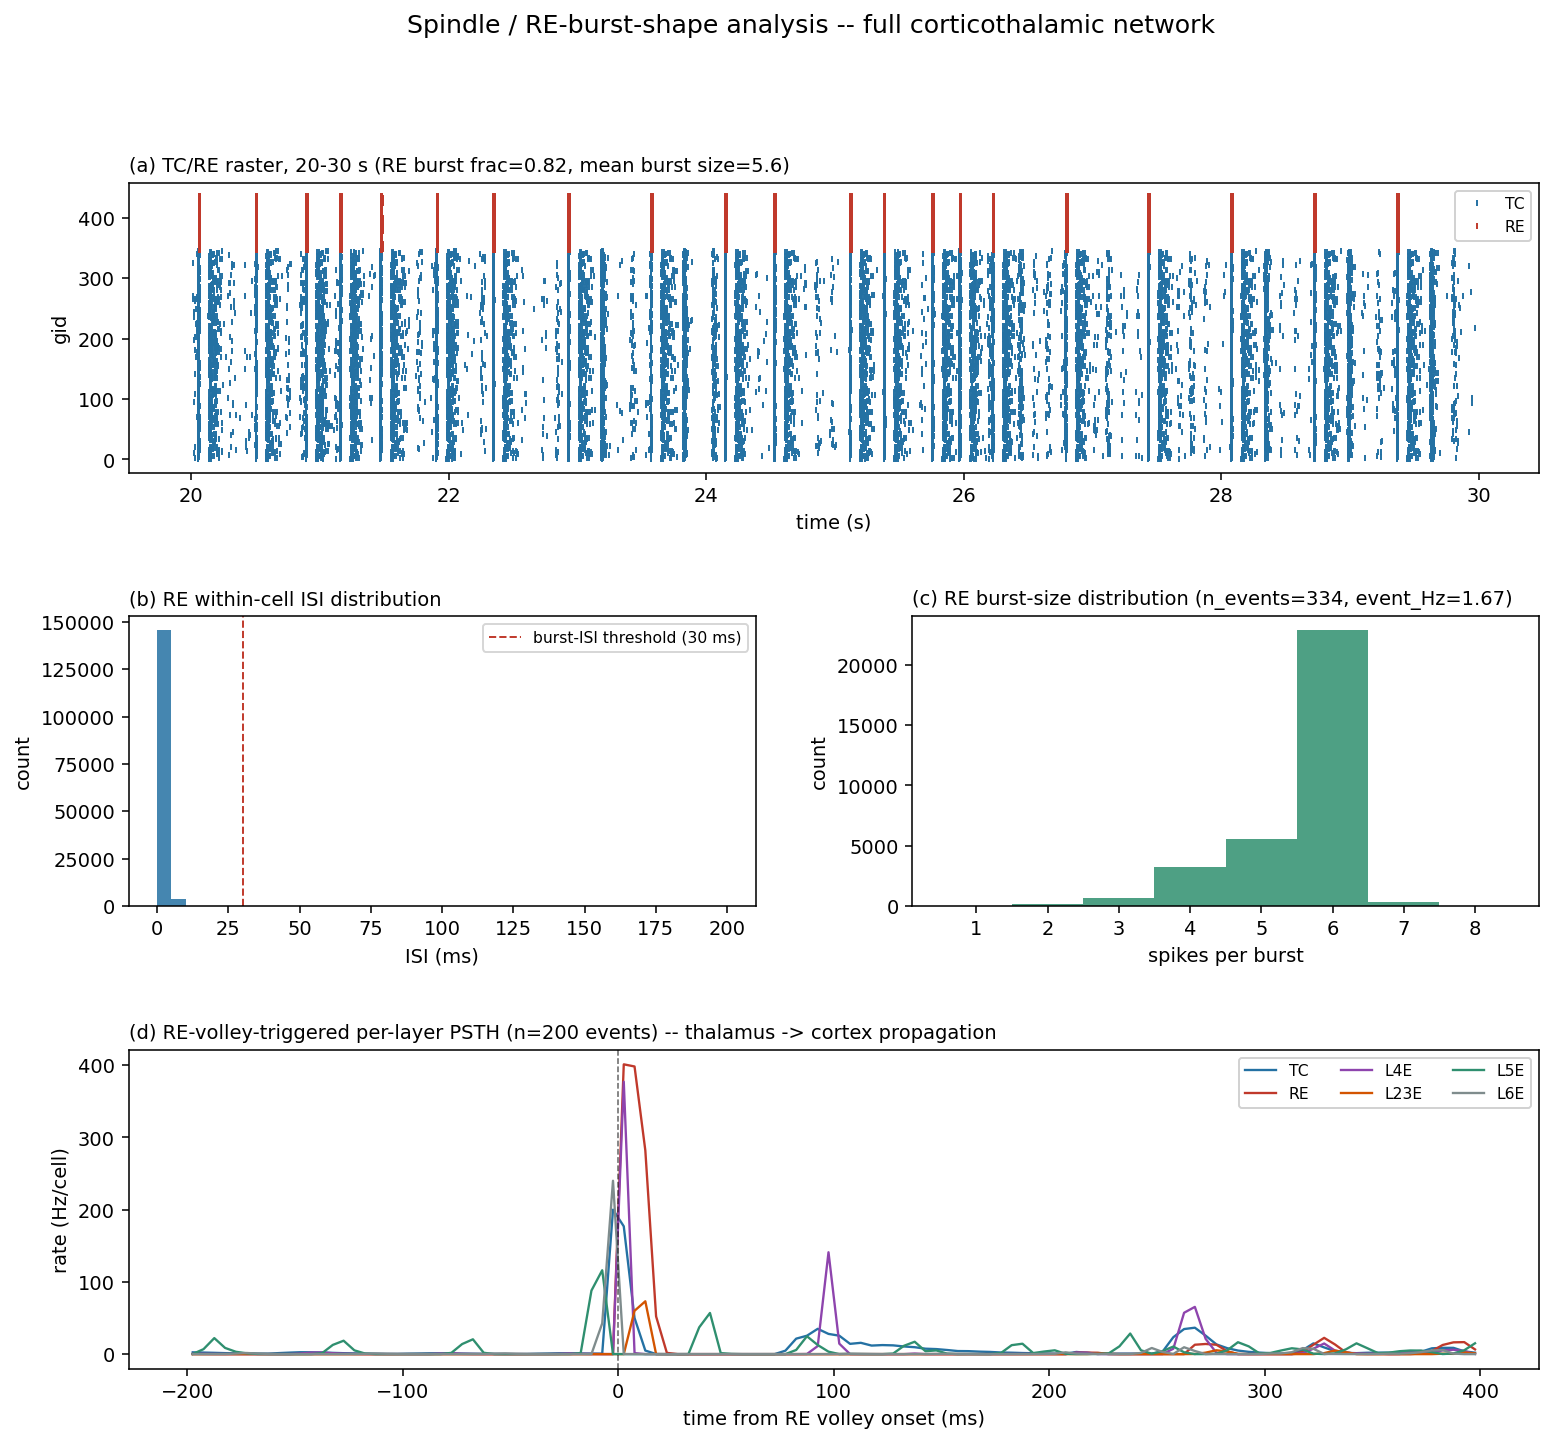
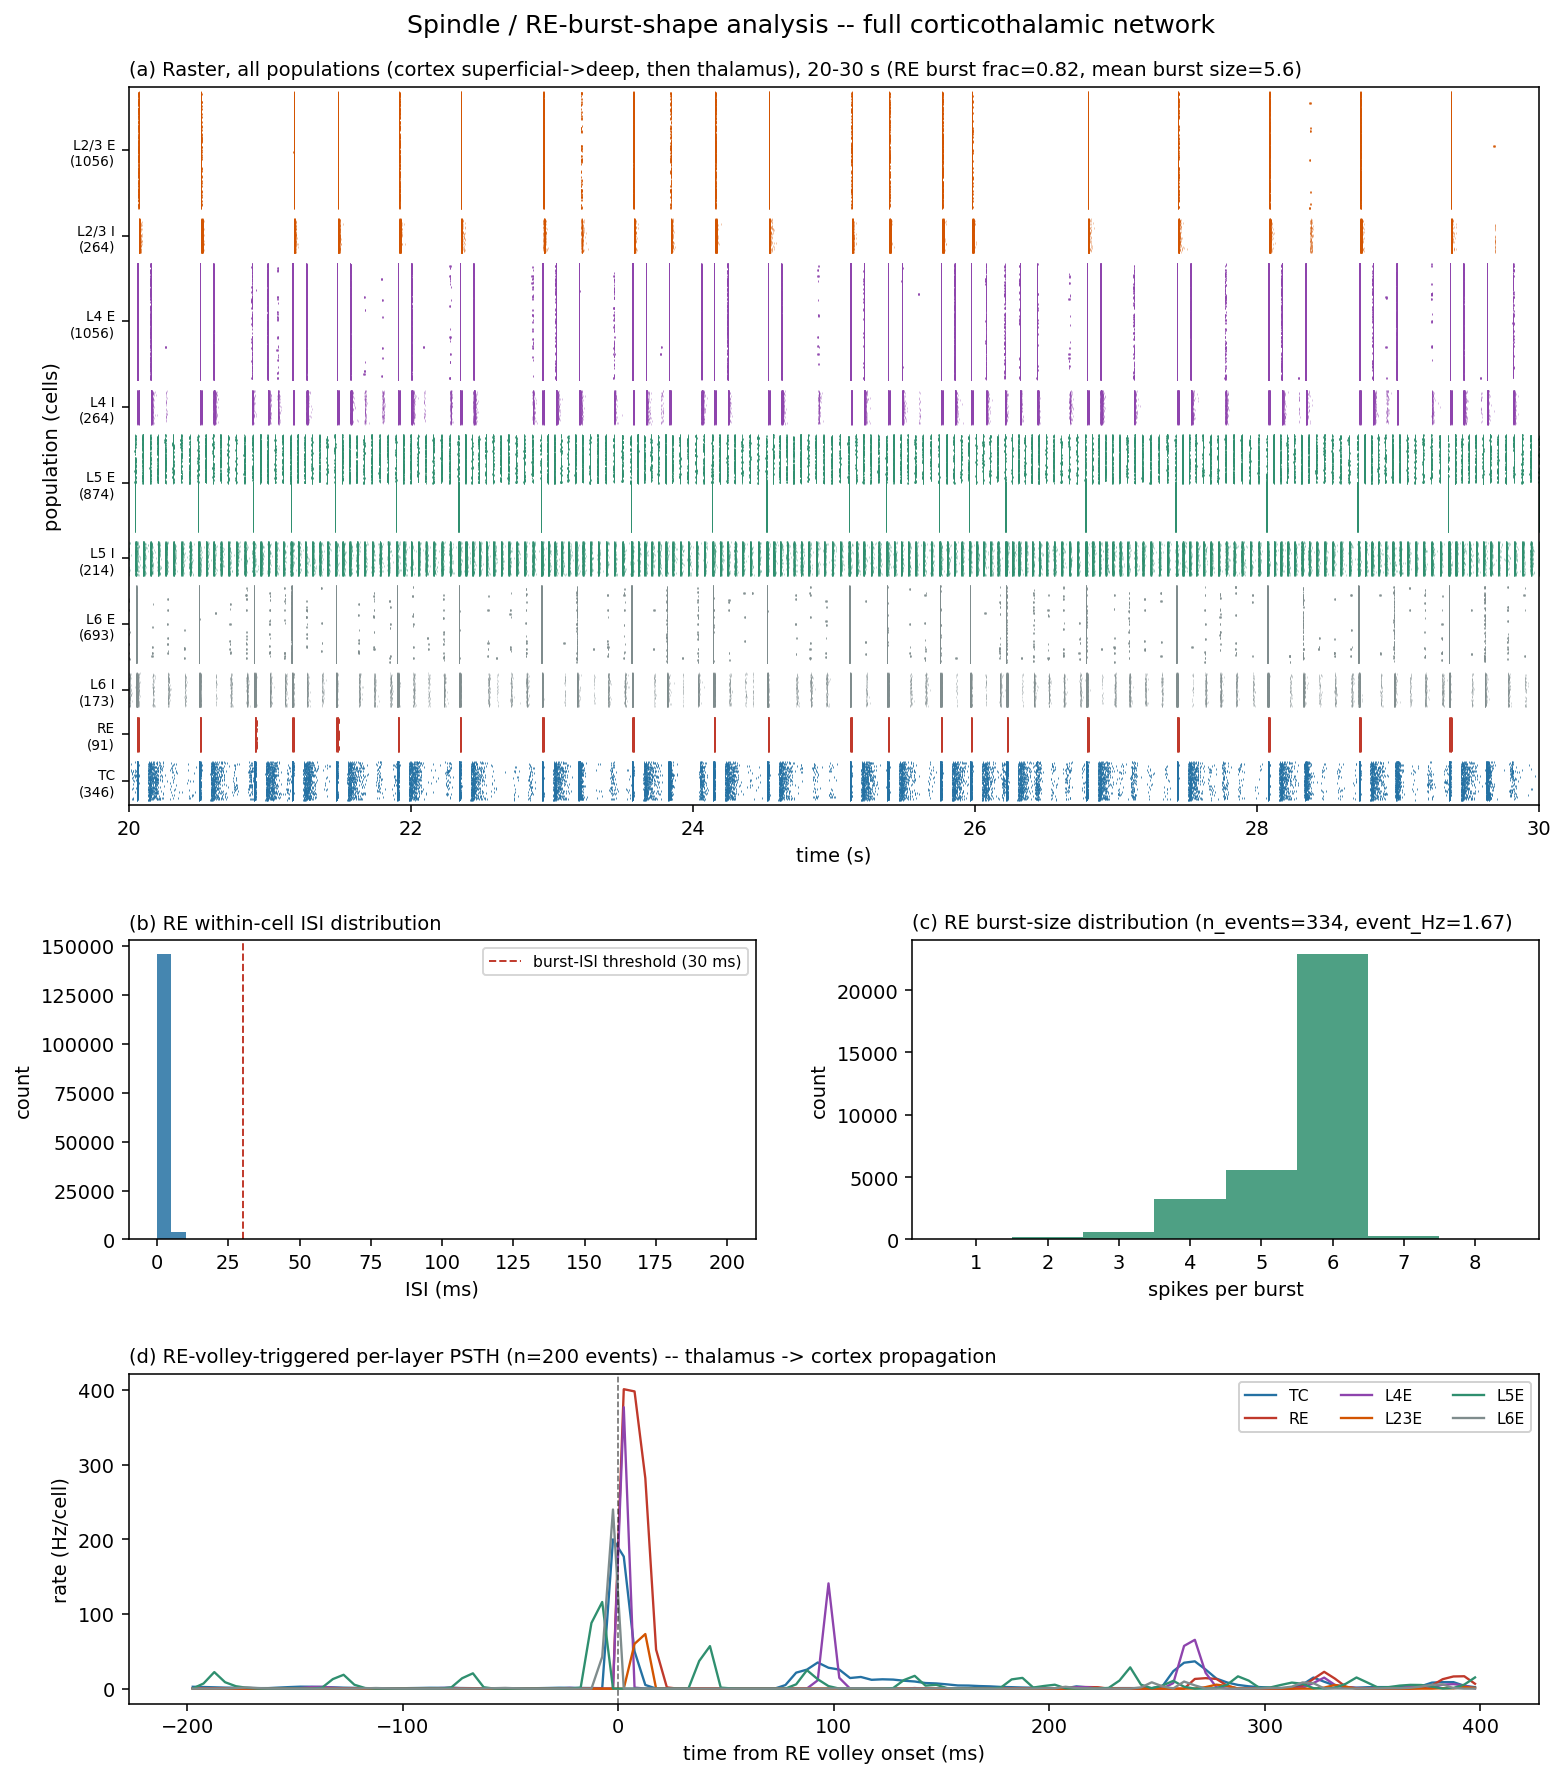
Add full-population raster to spindle and LFP comparison figures; Edu Q6
ctx_analyze: new _raster_all_pops() draws every population in
anatomical order (cortex L2/3 -> L6, E then I, then RE, TC), with a
minimum row height for small populations.
- make_spindle_figure panel (a): was TC/RE only, now the full raster.
- make_comparison_figure (reconstruction mode): raster under each
  case's two LFP panels, same spindle shading; --no-raster to omit.
  Title margin now scales with figure height.

Regenerated out/ctx_45453403_spindles.png and
out/mn5_before_vs_option2_comparison.png from the MN5 runs.
Edu-questions.md: new Q6 (what each population does, incl. the L5 IB
vs RS split: 3.2 vs 8.7 Hz/cell, RS locked to L5I at ~19 Hz) and a note
on the raster in the Q3 example.

diff --git a/neuron/ctx_analyze.py b/neuron/ctx_analyze.py
@@ -8,7 +8,8 @@ Two figures:
      cortex), slow-oscillation band (0.5-4 Hz), spindle band (8-15 Hz) with
      Hilbert envelope, and a spectrogram of the thalamic (TC+RE) signal.
 
-  2. <tag>_spindles.png -- RE burst shape (raster, ISI histogram, burst-size
+  2. <tag>_spindles.png -- raster of every population (cortex L2/3 -> L6,
+     then RE, TC), RE burst shape (ISI histogram, burst-size
      histogram) and a spindle-event-triggered PSTH across TC/RE/L4E/L23E/L5E/L6E
      showing whether/how a thalamic spindle volley propagates up the column.
 
@@ -164,20 +165,17 @@ def make_spindle_figure(npz, out_png, window=(20000, 30000)):
 
     s = _re_burst_stats(t, g, re_lo, re_hi)
 
-    fig = plt.figure(figsize=(13, 11))
-    gs = fig.add_gridspec(3, 2, height_ratios=[1, 1, 1.1], hspace=0.48, wspace=0.25)
+    fig = plt.figure(figsize=(13, 15))
+    gs = fig.add_gridspec(3, 2, height_ratios=[2.4, 1, 1.1], hspace=0.3, wspace=0.25)
 
-    w = (t >= window[0]) & (t < window[1])
     ax = fig.add_subplot(gs[0, :])
-    for name, color in [("tc", BLUE), ("re", RED)]:
-        lo, hi = ranges[name]
-        m = w & (g >= lo) & (g < hi)
-        ax.plot(t[m] / 1000.0, g[m], "|", ms=3, color=color, label=name.upper())
-    ax.set_title(f"(a) TC/RE raster, {window[0]/1000:.0f}-{window[1]/1000:.0f} s "
+    _raster_all_pops(ax, npz, window, label_sep="\n")
+    ax.set_xlim(window[0] / 1000.0, window[1] / 1000.0)
+    ax.set_title(f"(a) Raster, all populations (cortex superficial->deep, then thalamus), "
+                 f"{window[0]/1000:.0f}-{window[1]/1000:.0f} s "
                  f"(RE burst frac={s['frac_burst']:.2f}, mean burst size={s['mean_burst_size']:.1f})",
                  fontsize=10, loc="left")
-    ax.set_xlabel("time (s)"); ax.set_ylabel("gid")
-    ax.legend(fontsize=8, loc="upper right", framealpha=0.9)
+    ax.set_xlabel("time (s)"); ax.set_ylabel("population (cells)")
 
     ax = fig.add_subplot(gs[1, 0])
     if len(s["isis"]):
@@ -233,7 +231,7 @@ def make_spindle_figure(npz, out_png, window=(20000, 30000)):
     ax.legend(fontsize=8, ncol=3, loc="upper right", framealpha=0.9)
 
     fig.suptitle("Spindle / RE-burst-shape analysis -- full corticothalamic network",
-                 fontsize=13, y=0.99)
+                 fontsize=13, y=0.915)
     fig.savefig(out_png, dpi=140, bbox_inches="tight")
     plt.close(fig)
     print(f"Saved spindle-analysis figure to {out_png}")
@@ -356,6 +354,41 @@ def make_lfp_figure(npz, out_png, window=(20000, 30000), epoch_ms=2000.0):
     print(f"Saved LFP figure to {out_png}")
 
 
+RASTER_ROWS = [("l23e", "L2/3 E", "#d35400", 1.0), ("l23i", "L2/3 I", "#d35400", 0.4),
+               ("l4e", "L4 E", "#8e44ad", 1.0), ("l4i", "L4 I", "#8e44ad", 0.4),
+               ("l5e", "L5 E", GREEN, 1.0), ("l5i", "L5 I", GREEN, 0.4),
+               ("l6e", "L6 E", GREY, 1.0), ("l6i", "L6 I", GREY, 0.4),
+               ("re", "RE", RED, 1.0), ("tc", "TC", BLUE, 1.0)]
+
+
+def _raster_all_pops(ax, npz, window, min_frac=0.06, gap_frac=0.02, label_sep=" "):
+    """Spike raster of EVERY population, stacked in anatomical order (cortex
+    superficial -> deep, then RE, TC) rather than gid order. E cells use the
+    layer colours of make_spindle_figure's PSTH, I cells a lighter shade.
+    Rows are proportional to cell count, but small populations (RE, the I
+    populations) get at least min_frac of the total height so they stay
+    readable and labelled."""
+    t, g, ranges = npz["times"], npz["gids"], npz["ranges"].item()
+    rows = [r for r in RASTER_ROWS if r[0] in ranges]
+    total = sum(ranges[p][1] - ranges[p][0] for p, *_ in rows)
+    gap, min_h = gap_frac * total, min_frac * total
+    w = (t >= window[0]) & (t < window[1])
+    y0, ticks, labels = 0.0, [], []
+    for pop, label, color, alpha in reversed(rows):
+        lo, hi = ranges[pop]
+        n = hi - lo
+        h = max(n, min_h)
+        m = w & (g >= lo) & (g < hi)
+        ax.scatter(t[m] / 1000.0, y0 + (g[m] - lo) * (h / n), s=0.4, marker="|",
+                   lw=0.4, color=color, alpha=alpha, rasterized=True)
+        ticks.append(y0 + h / 2.0)
+        labels.append(f"{label}{label_sep}({n})")
+        y0 += h + gap
+    ax.set_yticks(ticks)
+    ax.set_yticklabels(labels, fontsize=7)
+    ax.set_ylim(-gap / 2, y0 - gap / 2)
+
+
 def _detect_spindles(spin, bins, k_sd=1.5, skip_ms=1000.0):
     """Spindle events = spindle-band Hilbert-envelope excursions above
     mean + k_sd*sd. Returns (starts, ends) as indices into bins; ends are
@@ -428,14 +461,19 @@ def make_literature_reconstruction_figure(npz, out_png, window=(20000, 40000),
     print(f"Saved literature-style reconstruction to {out_png}")
 
 
-def make_comparison_figure(cases, out_png, window=(2000, 12000), mode="reconstruction"):
+def make_comparison_figure(cases, out_png, window=(2000, 12000), mode="reconstruction",
+                           raster=True):
     """Overlay multiple runs on IDENTICAL y-scales for direct comparison --
     either the literature-style SO+spindle reconstruction (mode=
     "reconstruction", stacked one pair of panels per case, like
     make_literature_reconstruction_figure but multi-case) or the raw/
     SO-band/spindle-band triple used in make_lfp_figure's panel (c)
     (mode="panel_c", all cases overlaid on 3 shared panels instead of
-    stacked). `cases` is a list of (label, npz, color) tuples."""
+    stacked). `cases` is a list of (label, npz, color) tuples.
+
+    raster (reconstruction mode only): add a spike raster of every
+    population under each case's two LFP panels, on the same time axis and
+    with the same spindle shading (see _raster_all_pops)."""
     fs = 1000.0
     computed = {}
     for label, npz, color in cases:
@@ -456,11 +494,21 @@ def make_comparison_figure(cases, out_png, window=(2000, 12000), mode="reconstru
                       for l, _, _ in cases)
         spin_max = max(np.max(np.abs(computed[l]["spin"][_w(computed[l]["bins"])]))
                        for l, _, _ in cases)
-        fig, axes = plt.subplots(len(cases) * 2, 1, figsize=(14, 2.3 * len(cases) * 2), sharex=True)
-        for i, (label, _, color) in enumerate(cases):
+        per = 3 if raster else 2
+        ratios = ([1, 1, 2.6] if raster else [1, 1]) * len(cases)
+        fig, axes = plt.subplots(len(cases) * per, 1, sharex=True,
+                                 figsize=(14, sum(ratios) * 2.3),
+                                 gridspec_kw=dict(height_ratios=ratios))
+        for i, (label, npz, color) in enumerate(cases):
             d = computed[label]
             w = _w(d["bins"]); tsec = d["bins"][w] / 1000.0
-            ax_raw, ax_spin = axes[2 * i], axes[2 * i + 1]
+            ax_raw, ax_spin = axes[per * i], axes[per * i + 1]
+            shaded = [ax_raw, ax_spin]
+            if raster:
+                ax_r = axes[per * i + 2]
+                _raster_all_pops(ax_r, npz, window)
+                ax_r.set_ylabel("spikes", fontsize=8)
+                shaded.append(ax_r)
             ax_raw.plot(tsec, d["reconstructed"][w], color=color, lw=0.8)
             ax_raw.set_ylim(-raw_max * 1.1, raw_max * 1.1)
             ax_raw.set_ylabel("SO + spindle\nbands (sum)", fontsize=8)
@@ -472,13 +520,16 @@ def make_comparison_figure(cases, out_png, window=(2000, 12000), mode="reconstru
                 ts_, te_ = d["bins"][s] / 1000.0, d["bins"][e] / 1000.0
                 if te_ < window[0] / 1000.0 or ts_ > window[1] / 1000.0:
                     continue
-                for ax in (ax_raw, ax_spin):
+                for ax in shaded:
                     ax.axvspan(ts_, te_, color="0.5", alpha=0.18, lw=0)
         axes[-1].set_xlabel("time (s)")
+        axes[-1].set_xlim(window[0] / 1000.0, window[1] / 1000.0)
         fig.suptitle("Reconstructed (SO-band + spindle-band) LFP, literature-style stacked format\n"
-                     "(identical y-scales across cases; shaded = detected spindle events)",
+                     "(identical y-scales across cases; shaded = detected spindle events"
+                     + ("; raster = all populations, cortex L2/3 -> L6 then RE, TC)" if raster else ")"),
                      fontsize=12, y=0.995)
-        fig.tight_layout(rect=[0, 0, 1, 0.94])
+        fig_h = fig.get_size_inches()[1]
+        fig.tight_layout(rect=[0, 0, 1, min(0.97, 1 - 0.9 / fig_h)])
     else:
         def common_ylim(key, pad=1.15):
             vals = [computed[l][key][_w(computed[l]["bins"])] for l, _, _ in cases]
@@ -531,6 +582,9 @@ def main(argv=None):
                           "label=path pairs, e.g. "
                           "\"old=out/a.npz,new=out/b.npz\". Colors are assigned "
                           "automatically. See --compare-mode.")
+    ap.add_argument("--no-raster", action="store_true",
+                     help="--compare reconstruction mode: omit the all-population "
+                          "spike raster under each case")
     ap.add_argument("--compare-mode", choices=["reconstruction", "panel_c"],
                      default="reconstruction",
                      help="--compare output style: \"reconstruction\" (stacked "
@@ -555,7 +609,8 @@ def main(argv=None):
         window = (args.window_start, args.window_start + args.window_len)
         tag = args.tag or "compare"
         make_comparison_figure(cases, outdir / f"{tag}_comparison.png",
-                                window=window, mode=args.compare_mode)
+                                window=window, mode=args.compare_mode,
+                                raster=not args.no_raster)
         return 0
 
     npz = np.load(args.npz, allow_pickle=True)

diff --git a/Edu-questions.md b/Edu-questions.md
@@ -274,7 +274,10 @@ smoothed with a 5 ms moving average (`make_meanfield_figure` in
 Both runs are 5031 cells and 200 s on MN5; the plot shows 20–30 s, after the
 start-up period, on identical y-scales. For each run the upper trace is the
 0.5–2 Hz band plus the 10–15 Hz band, the lower trace is the 10–15 Hz band
-alone, and grey boxes are detected spindle events (question 1).
+alone, and grey boxes are detected spindle events (question 1). The third
+panel is a spike raster of every population (cortex L2/3 → L6, then RE, TC)
+with the same shading, so each shaded event can be matched to the spikes
+under it: in both runs each one sits on a single thalamic volley (question 5).
 
 - **Top, job 45171023:** before the L5 tuning. It predates three changes: L5
   recurrence, weaker L5 inhibition (`g_i_e_l5`) and slower L5 adaptation
@@ -525,3 +528,41 @@ The figure and every number above come from `neuron/volley_stats.py`:
 ```bash
 python3 neuron/volley_stats.py "Before L5 tuning (MN5 job 45171023)=res/2026-08-31/ctx_nrn_45171023.npz" "Option 2 (MN5 job 45453403)=res/2026-09-07/ctx_nrn_45453403.npz" --plot out/mn5_population_rates_before_vs_option2.png
 ```
+
+## 6) What do the cortical cells do? (full raster of every population)
+
+The spindle figure's panel (a) used to show only TC and RE. It now shows every
+population, in anatomical order: cortex from L2/3 down to L6 (E, then the
+lighter-shaded I cells of each layer), then RE and TC. Rows are proportional
+to cell count, with a minimum height for small populations so they stay
+readable. MN5 job 45453403 (Option 2, 5031 cells), 20–30 s:
+
+![Spindle figure with the full raster, MN5 job 45453403](out/ctx_45453403_spindles.png)
+
+What the raster shows:
+
+- **Each thalamic volley reaches the whole column.** Every RE volley lines up
+  with one sharp column of spikes in L2/3, L4 and L6. Between volleys, L2/3 is
+  almost silent.
+- **L5 is two populations.** The lower half of the L5 E row is the 437
+  intrinsically bursting (IB) cells: they fire only with the volleys
+  (3.2 Hz per cell). The upper half is the 437 regular-spiking cells recruited
+  by the NMDA recurrence: they fire continuously (8.7 Hz per cell), locked to
+  L5 I at about 19 Hz. This is the ongoing ~19 Hz activity from question 5,
+  and it comes from the regular-spiking half of L5, not the bursting cells.
+- **L4 fires more often than the volleys,** following the scattered TC firing
+  that continues for about 100–200 ms after each volley.
+- **L6 E fires sparsely.** Its synchronised spikes line up with the volleys:
+  this is the output that drives the thalamus.
+
+Panels (b)–(d) are unchanged: RE's within-cell ISI distribution, RE burst
+sizes, and the RE-volley-triggered firing rate of each layer.
+
+Regenerate with:
+
+```bash
+python3 neuron/ctx_analyze.py res/2026-09-07/ctx_nrn_45453403.npz --outdir out --tag ctx_45453403
+```
+
+The same raster is added under each run in the LFP comparison figure
+(`make_comparison_figure`, question 3); `--no-raster` turns it off there.
